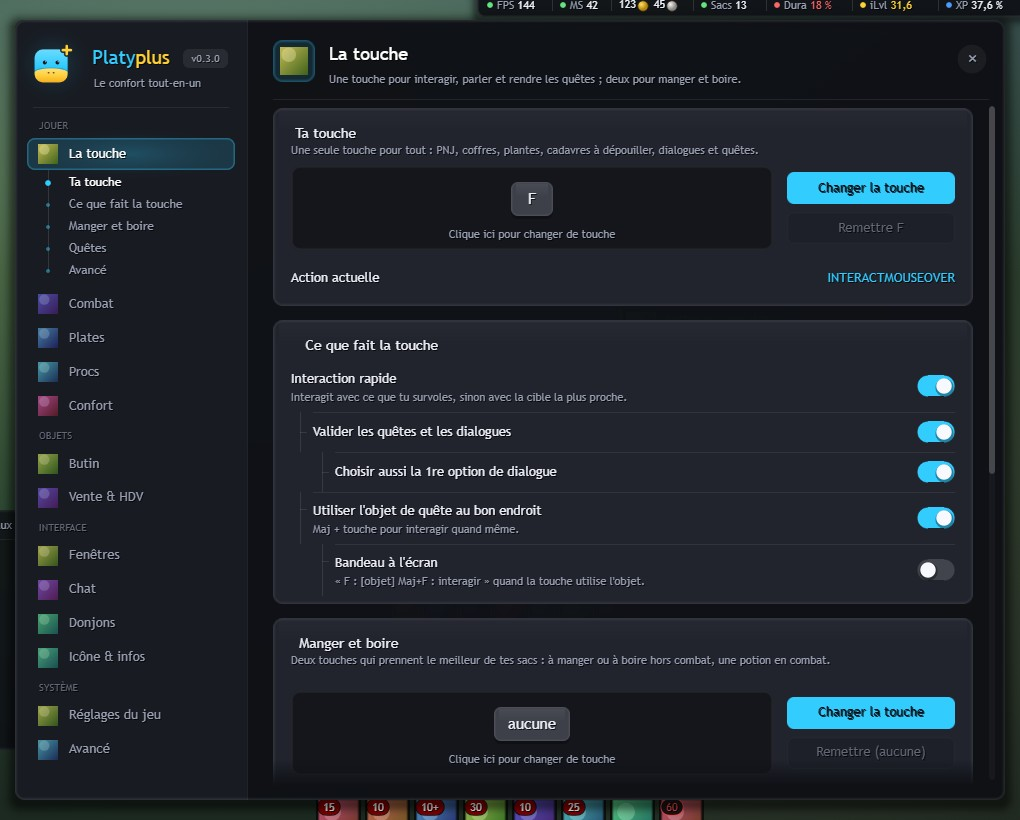
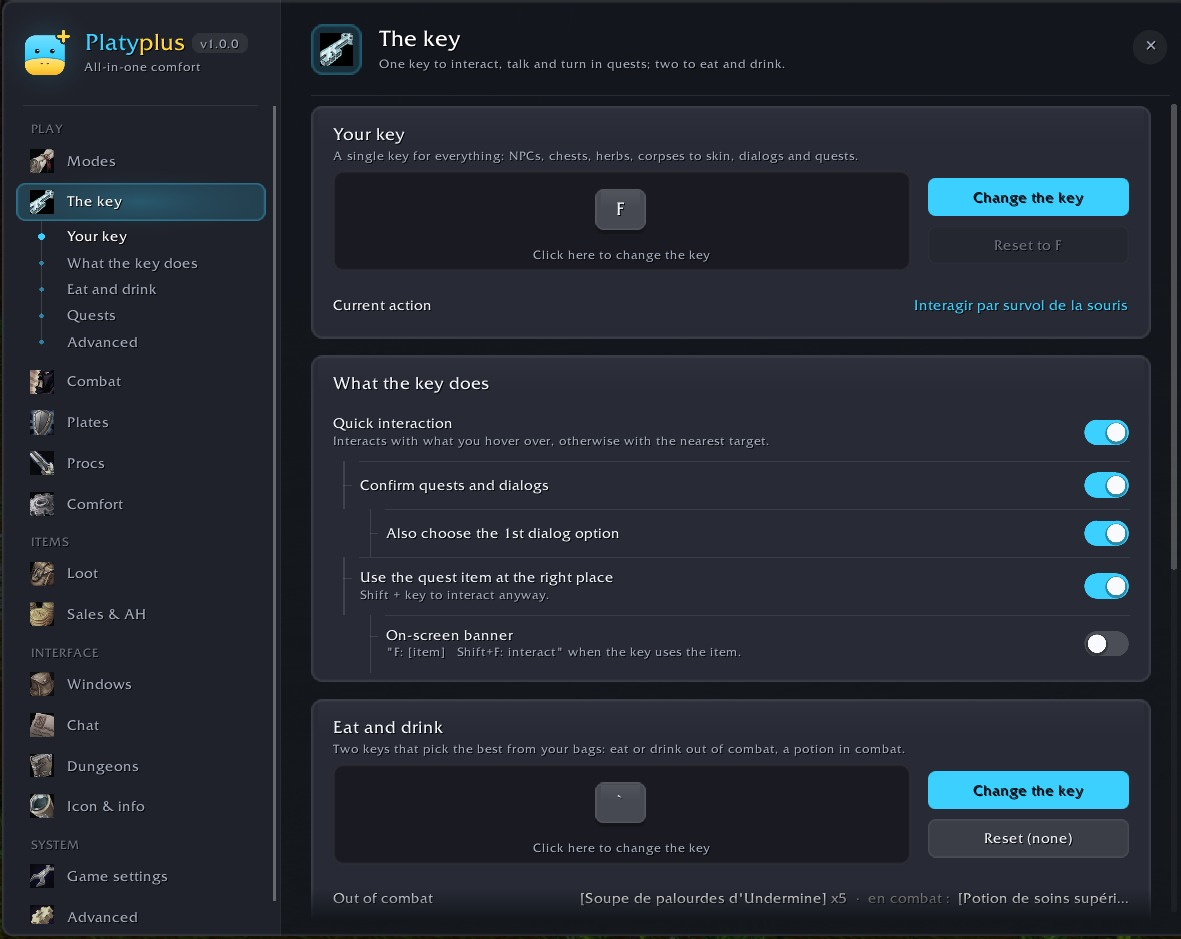
Docs: first in-game screenshots (options window, proc alert, info bar)

Changed region(s): [[0.0, 0.0, 1.0, 1.0], [0.5471, 0.0, 0.7294, 0.0305]]

diff --git a/docs/curseforge.md b/docs/curseforge.md
@@ -32,6 +32,8 @@ The useful features are on from the start, so you can just play. Prefer another 
 
 ## Combat
 
+![Proc alert in game: the ability and its key](https://raw.githubusercontent.com/bloufed/Platyplus/main/docs/images/procs.png)
+
 ![Proc alert, loot feed and swing timer](https://raw.githubusercontent.com/bloufed/Platyplus/main/docs/images/hud.jpg)
 
 * **Proc alerts**: the ability that just became usable pops up with its icon and keybind.
@@ -71,6 +73,8 @@ The useful features are on from the start, so you can just play. Prefer another 
 * A launcher icon with an info bar: FPS, latency, gold, bags, durability, item level, XP per hour.
 * Recommended game settings in one click.
 
+![The launcher icon and its info bar](https://raw.githubusercontent.com/bloufed/Platyplus/main/docs/images/launcher.png)
+
 ## Getting started
 
 Install, restart the game, log in. A short **guided tour** opens, in English: pick your language at the top of its first page and it switches right away. Then one welcome page, then one small page per big feature (the key, combat, threat, loot, selling, windows, the icon), each with its main switches. Replay it any time with **/pp bienvenue** (or **/pp tuto**).
@@ -88,7 +92,7 @@ Then type **/pp** (or left-click the Platyplus icon) for all the options; hover 
 
 * Platyplus is young and under active development. It was built and played on a warrior; other classes are supported but less battle-tested. Please report bugs on [GitHub](https://github.com/bloufed/Platyplus/issues).
 * Platyplus does not bundle a dungeon journal. Install [DungeonJournal](https://www.curseforge.com/wow/addons/dungeonjournal) by Exehn: Platyplus opens it from its menu and dresses it up (Platyplus look, a "Dungeons" column, an "At your level" row). That look and that column are Platyplus's work, not Exehn's: each has its switch in the Dungeons tab of the Platyplus options, so switch them off before reporting a bug to DungeonJournal.
-* Images on this page come from the addon's offline simulator; spell and item icons are placeholders.
+* The options window, the proc alert and the info bar are in-game screenshots; the other images come from the addon's offline simulator (spell and item icons are placeholders).
 
 ## Credits
 

diff --git a/README.md b/README.md
@@ -29,8 +29,8 @@ still has its own switch in `/pp`, and a short guided tour on your first login s
 
 ![The options window](docs/images/options-key.jpg)
 
-> The images on this page are rendered by the addon's offline simulator (item and spell icons are placeholders).
-> In-game screenshots are coming.
+> The options window, the proc alert and the info bar are in-game screenshots. The other images are still rendered
+> by the addon's offline simulator (item and spell icons are placeholders); more screenshots are coming.
 
 ## Why Platyplus
 
@@ -80,6 +80,8 @@ still has its own switch in `/pp`, and a short guided tour on your first login s
 - Two more keys to **eat** and **drink**: the best food or drink in your bags out of combat, a potion in combat.
 
 ### Combat
+
+![Proc alert in game: the ability and its key](docs/images/procs.png)
 
 ![Proc alert, loot feed and swing timer](docs/images/hud.jpg)
 
@@ -131,6 +133,8 @@ still has its own switch in `/pp`, and a short guided tour on your first login s
 - A small **launcher icon** with an info bar: FPS, latency, gold, bag space, durability, item level, XP and XP per
   hour — placed wherever you like.
 - Recommended **game settings** in one click.
+
+![The launcher icon and its info bar](docs/images/launcher.png)
 
 ## Commands
 

diff --git a/README.fr.md b/README.fr.md
@@ -31,8 +31,9 @@ que fait chaque fonction.
 
 ![La fenêtre d'options](docs/images/options-key.jpg)
 
-> Les images de cette page sont rendues par le simulateur hors jeu de l'addon (les icônes d'objets et de sorts
-> sont des pastilles). Les captures en jeu arrivent.
+> La fenêtre d'options, l'alerte de proc et la barre d'infos sont des captures en jeu. Les autres images sont encore
+> rendues par le simulateur hors jeu de l'addon (les icônes d'objets et de sorts sont des pastilles) ; d'autres
+> captures arrivent.
 
 ## Pourquoi Platyplus
 
@@ -86,6 +87,8 @@ que fait chaque fonction.
 - Deux autres touches pour **manger** et **boire** : le meilleur de tes sacs hors combat, une potion en combat.
 
 ### Combat
+
+![Alerte de proc en jeu : le sort et sa touche](docs/images/procs.png)
 
 ![Alerte de proc, flux de butin et barre de coups blancs](docs/images/hud.jpg)
 
@@ -144,6 +147,8 @@ que fait chaque fonction.
 - Une petite **icône** avec sa barre d'infos : FPS, latence, or, place dans les sacs, durabilité, niveau d'objet,
   XP et XP par heure — où tu veux à l'écran.
 - Les **réglages du jeu** recommandés, en un clic.
+
+![L'icône et sa barre d'infos](docs/images/launcher.png)
 
 ## Commandes
 
